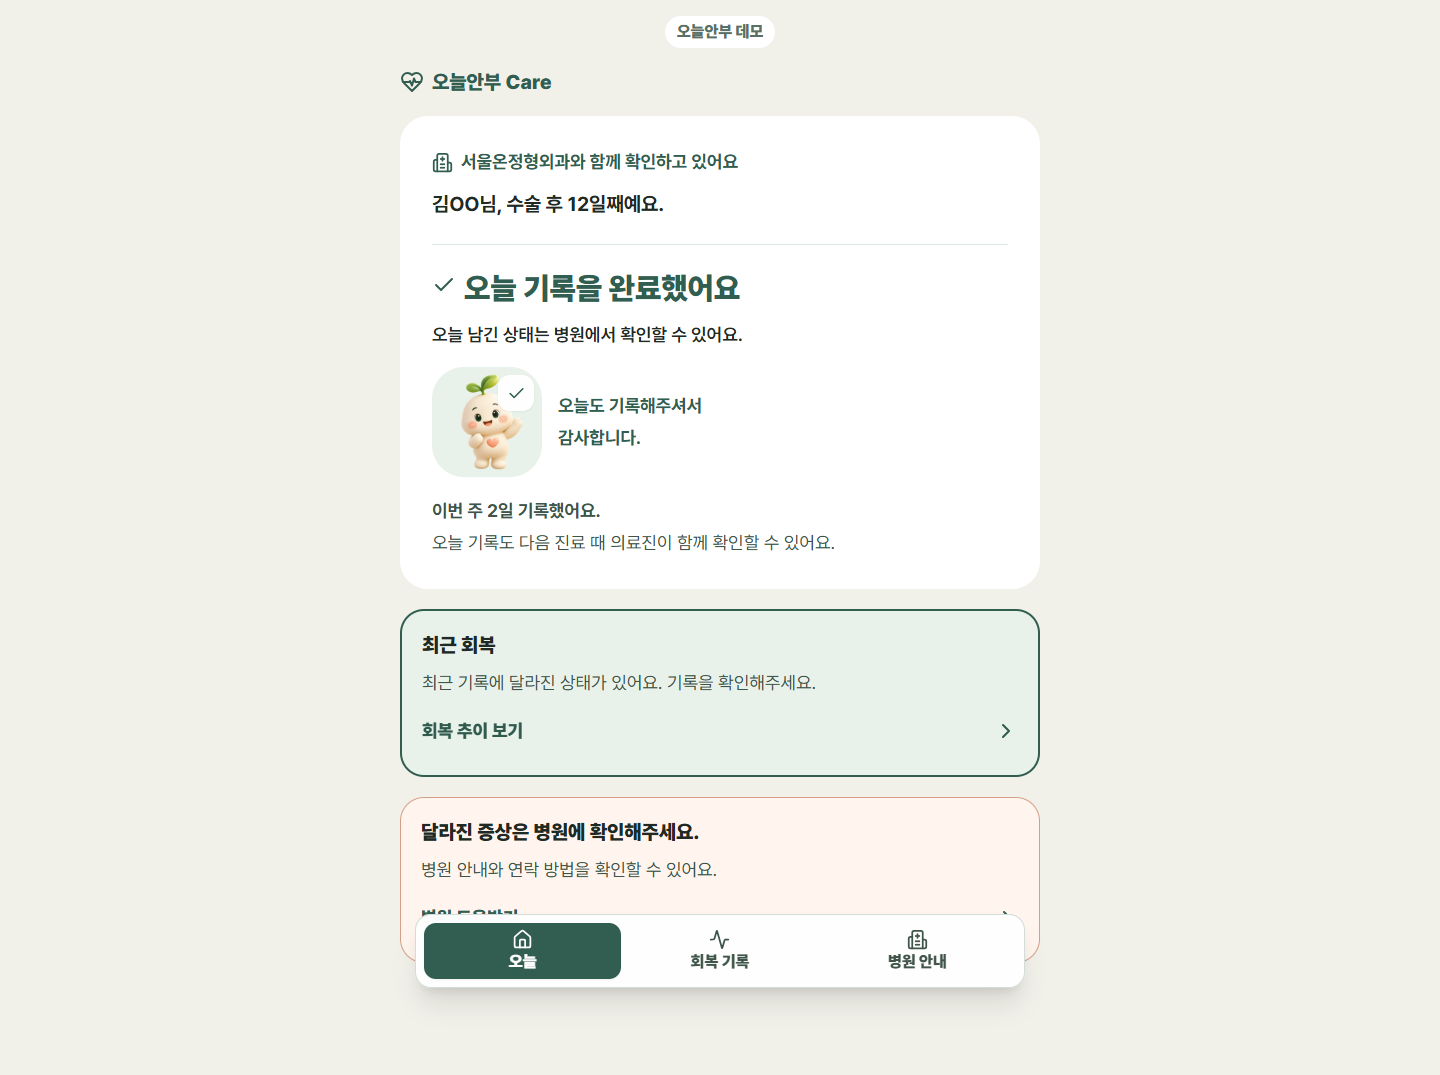
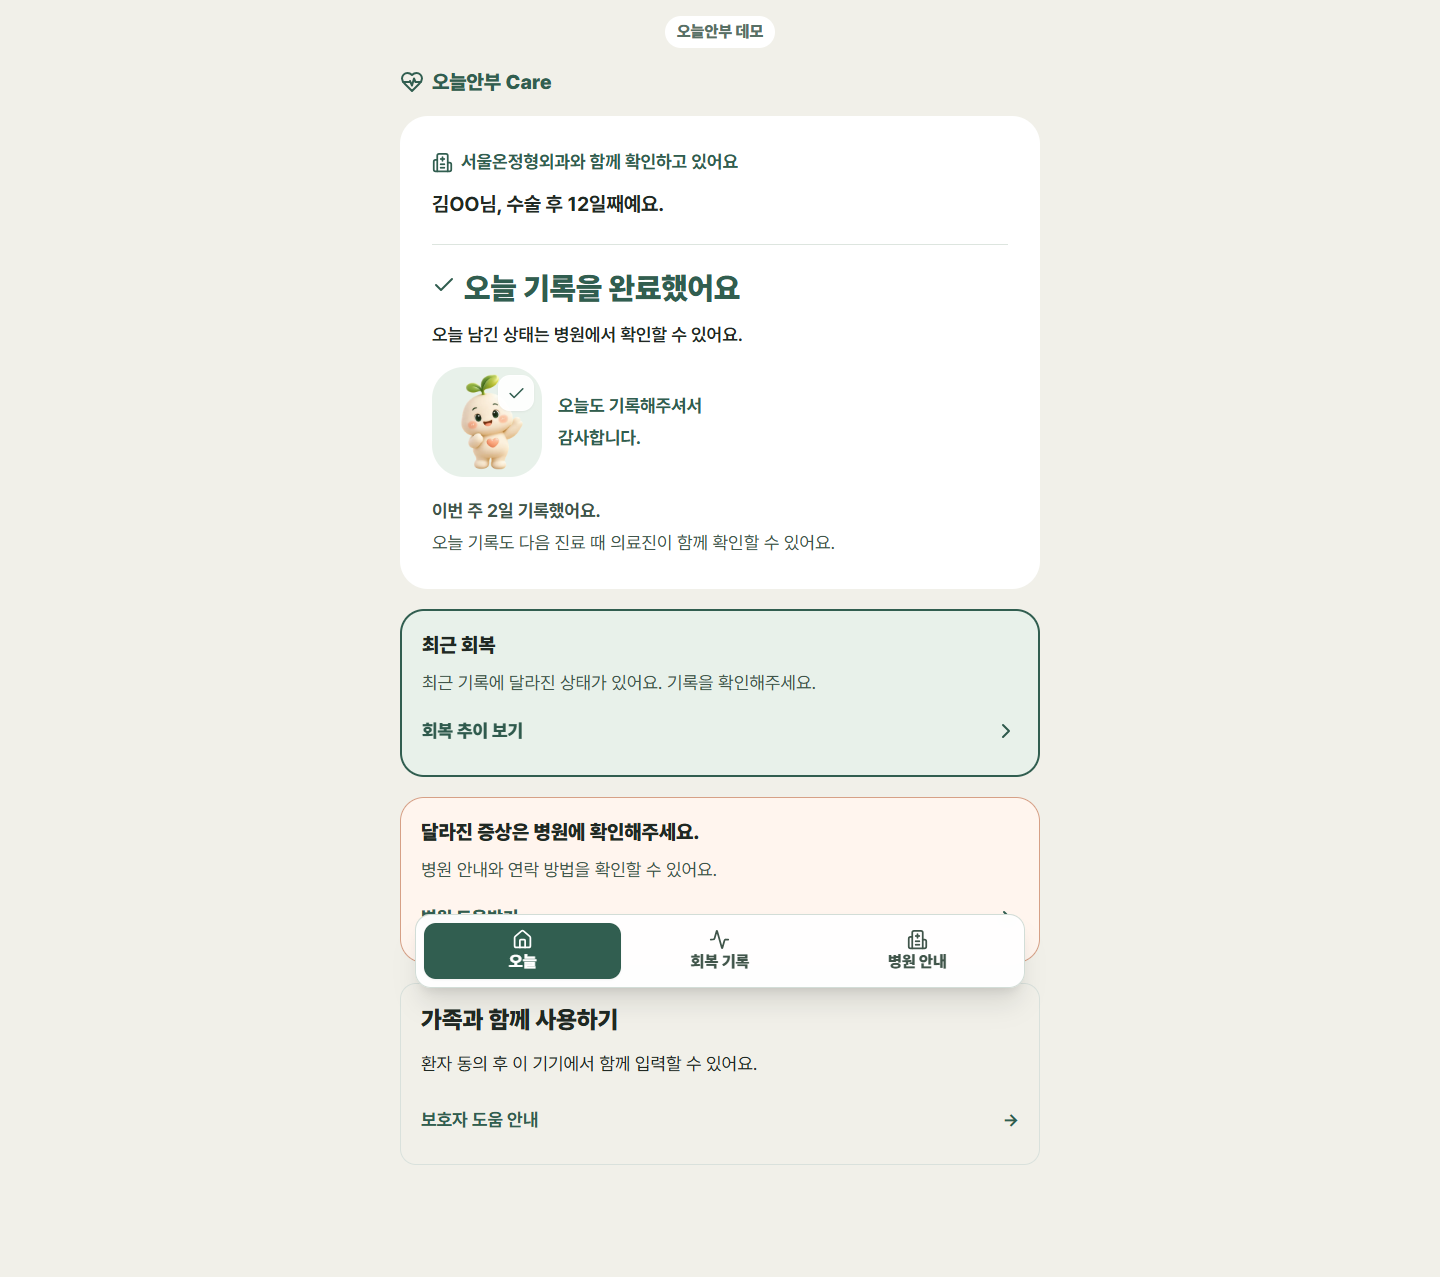
Update Site source

diff --git a/src/components/patient-hospital-guide.tsx b/src/components/patient-hospital-guide.tsx
@@ -1,43 +1,38 @@
 "use client";
 import { useEffect, useState } from "react";
-import { PatientLink, usePatientNavigation } from "@/components/patient-navigation";
+import { usePatientNavigation } from "@/components/patient-navigation";
 import { patientAppointment } from "@/lib/patient-appointment";
 import type { Hospital, Patient } from "@/lib/care-mvp";
 
 export function PatientHospitalGuide({hospital,patient}:{hospital?:Hospital;patient:Patient}) {
-  const nav=usePatientNavigation(),[now,setNow]=useState(()=>new Date()),[urgent,setUrgent]=useState(false),[family,setFamily]=useState(false),[consent,setConsent]=useState(false),[past,setPast]=useState(false),[help,setHelp]=useState(false),[demoAction,setDemoAction]=useState("");
+  const nav=usePatientNavigation(),[now,setNow]=useState(()=>new Date()),[urgent,setUrgent]=useState(false),[past,setPast]=useState(false),[help,setHelp]=useState(false),[demoAction,setDemoAction]=useState("");
   useEffect(()=>{const refresh=()=>setNow(new Date());const timer=window.setInterval(refresh,60000);window.addEventListener("focus",refresh);return()=>{clearInterval(timer);window.removeEventListener("focus",refresh);};},[]);
   const appointment=patientAppointment(patient.nextAppointment,now);
   const mock=nav.demo && !hospital?.phone;
   const phone=mock?"02-000-0000":hospital?.phone?.trim(), hours=mock?"평일 09:00–18:00":hospital?.openingHours, address=mock?"서울 ○○구 ○○로 00":hospital?.address, dial=phone?.replace(/[\s().-]/g,"");
   const callable=!!dial && /^\+?\d{7,15}$/.test(dial);
-  const card="rounded-3xl bg-white p-6", action="flex min-h-14 items-center justify-between rounded-2xl border border-[#CAD8CF] px-4 text-lg font-black text-[#315E50]";
-  return <div className="space-y-5 py-5">
-    <header><p className="text-lg font-bold text-[#315E50]">병원 안내</p><h1 className="mt-2 text-3xl font-black leading-snug">{hospital?.name || "연결된 병원"}</h1><p className="mt-3 text-lg leading-8">퇴원 후 회복관리 안내</p></header>
-    <section className={card}><h2 className="text-2xl font-black">어떤 도움이 필요하세요?</h2><div className="mt-4 grid gap-3">
-      <button className={action+" border-[#DFB8A5] bg-[#FFF8F4] text-[#803F2D]"} aria-expanded={urgent} aria-controls="urgent-detail" onClick={()=>setUrgent(v=>!v)}>긴급한 증상이 있어요 <span aria-hidden>→</span></button>
-      {urgent ? <div id="urgent-detail" className="rounded-2xl bg-[#FFF8F4] p-5 text-lg leading-8"><h3 className="text-xl font-black">갑자기 이런 증상이 있나요?</h3><ul className="mt-3 list-disc pl-5"><li>갑작스럽게 심해진 통증</li><li>호흡곤란</li><li>의식 변화</li><li>지속적인 출혈</li></ul><p className="mt-4 font-bold">응급 증상이 있다면 오늘안부의 답변을 기다리지 말고 119 또는 가까운 응급의료기관을 이용하세요.</p><a href="tel:119" className="mt-4 flex min-h-14 items-center justify-center rounded-xl border-2 border-[#803F2D] font-black text-[#803F2D]">119 전화하기</a></div> : null}
-      <a href="#hospital-contact" className={action}>병원에 문의하기 <span aria-hidden>→</span></a>
-      
-    </div></section>
+  const card="rounded-2xl bg-white p-4 sm:p-5", action="flex min-h-14 items-center justify-between rounded-2xl border border-[#CAD8CF] px-4 text-lg font-black text-[#315E50]";
+  return <div className="space-y-3 py-4">
+    <header><p className="text-lg font-bold text-[#315E50]">병원 안내</p><h1 className="mt-2 text-3xl font-black leading-snug">{hospital?.name || "연결된 병원"}</h1></header>
+    <section id="hospital-contact" className={card+" scroll-mt-5"}><h2 className="sr-only">병원 정보</h2>
+      {nav.demo?<p className="mb-3 text-base font-bold text-[#315E50]">Demo · 아래 정보는 예시입니다.</p>:null}
+      <dl className="grid gap-2 sm:grid-cols-2"><div><dt className="sr-only">전화</dt><dd className="mt-1 text-xl font-black">{phone || "전화번호 정보 없음"}</dd></div><div><dt className="sr-only">진료시간</dt><dd className="mt-1 text-lg whitespace-pre-line">{hours || "진료시간 정보 없음"}</dd></div></dl>
+      {mock?<button onClick={()=>setDemoAction("전화 버튼을 선택했어요.")} className="mt-3 min-h-12 rounded-xl bg-[#315E50] px-6 text-lg font-black text-white">전화하기</button>:callable?<a href={`tel:${dial}`} className="mt-3 inline-flex min-h-12 items-center rounded-xl bg-[#315E50] px-6 text-lg font-black text-white">전화하기</a>:<button onClick={()=>setHelp(v=>!v)} aria-expanded={help} className="mt-3 min-h-12 text-lg font-black text-[#315E50]">병원 연락처 찾는 방법 →</button>}
+      {help?<div className="mt-3 rounded-xl bg-[#F1F0E9] p-4 text-lg leading-8"><p>문자나 카카오톡에서 병원 이름을 검색해 받은 안내의 전화번호를 확인해주세요. 퇴원 안내문에서도 찾을 수 있어요.</p><a href={`https://www.google.com/search?q=${encodeURIComponent((hospital?.name||"")+" 공식 홈페이지 전화번호")}`} target="_blank" rel="noopener noreferrer" className="mt-2 inline-flex min-h-12 items-center font-bold text-[#315E50]">병원 공식 연락처 검색 · 새 창 →</a><p className="text-base">동명이 있는 병원은 주소를 함께 확인해주세요.</p></div>:null}
+      <dl className="mt-2"><dt className="sr-only">주소</dt><dd className="mt-1 text-lg leading-8">{address || "주소 정보 없음"}</dd></dl>
+      {mock?<button onClick={()=>setDemoAction("길찾기 버튼을 선택했어요.")} className="min-h-12 text-lg font-black text-[#315E50]">길찾기 →</button>:address?<a href={`https://www.google.com/maps/dir/?api=1&destination=${encodeURIComponent(address)}`} target="_blank" rel="noopener noreferrer" className="inline-flex min-h-12 items-center text-lg font-black text-[#315E50]">길찾기 · 새 창 →</a>:null}
+      {demoAction?<p role="status" className="mt-3 rounded-xl bg-[#E8F1EA] p-3 text-lg leading-7">{demoAction}</p>:null}
+    </section>
     <section id="patient-appointment" className={card+" scroll-mt-5"} aria-labelledby="appointment-title">
       <h2 id="appointment-title" className="text-2xl font-black">다음 진료</h2>
       {appointment.state==="today"||appointment.state==="upcoming" ? <><p className="mt-3 text-xl font-black">{appointment.state==="today"?"오늘 진료가 있어요":`D-${appointment.days}`}</p><p className="mt-2 text-lg leading-8">{appointment.label}</p><p className="mt-2 text-lg">{hospital?.name} · {patient.department || "진료과 확인 필요"}</p></> : <><h3 className="mt-3 text-xl font-black">예정된 다음 진료가 없어요.</h3><p className="mt-2 text-lg leading-8">필요하면 병원에 일정을 확인해주세요.</p></>}
       <a href="#hospital-contact" className="mt-3 inline-flex min-h-12 items-center text-lg font-black text-[#315E50]">병원에 일정 문의하기 →</a>
       {appointment.state==="past" ? <div className="mt-3 border-t border-[#D5DED7] pt-2"><button aria-expanded={past} aria-controls="past-appointment" onClick={()=>setPast(v=>!v)} className="min-h-12 text-lg font-bold text-[#40554A]">지난 진료 {past?"접기":"보기"}</button>{past?<p id="past-appointment" className="text-lg leading-8">{appointment.label}<br/>{hospital?.name} · {patient.department || "진료과 확인 필요"}</p>:null}</div>:null}
     </section>
-    <section id="hospital-contact" className={card+" scroll-mt-5"}><h2 className="text-2xl font-black">병원 정보</h2>
-      {mock?<p className="mt-2 rounded-xl bg-[#E8F1EA] p-3 text-base font-bold">데모용 예시 정보 · 실제 병원 연락처가 아닙니다.</p>:null}
-      <dl className="mt-4 grid gap-4 sm:grid-cols-2"><div><dt className="text-lg font-bold">전화</dt><dd className="mt-1 text-xl font-black">{phone || "전화번호 정보 없음"}</dd></div><div><dt className="text-lg font-bold">진료시간</dt><dd className="mt-1 text-lg whitespace-pre-line">{hours || "진료시간 정보 없음"}</dd></div></dl>
-      {mock?<button onClick={()=>setDemoAction("전화 연결 미리보기예요. 실제 서비스에서는 등록된 병원 번호로 전화 앱이 열립니다.")} className="mt-3 min-h-12 rounded-xl bg-[#315E50] px-6 text-lg font-black text-white">전화하기</button>:callable?<a href={`tel:${dial}`} className="mt-3 inline-flex min-h-12 items-center rounded-xl bg-[#315E50] px-6 text-lg font-black text-white">전화하기</a>:<button onClick={()=>setHelp(v=>!v)} aria-expanded={help} className="mt-3 min-h-12 text-lg font-black text-[#315E50]">병원 연락처 찾는 방법 →</button>}
-      {help?<div className="mt-3 rounded-xl bg-[#F1F0E9] p-4 text-lg leading-8"><p>문자나 카카오톡에서 병원 이름을 검색해 받은 안내의 전화번호를 확인해주세요. 퇴원 안내문에서도 찾을 수 있어요.</p><a href={`https://www.google.com/search?q=${encodeURIComponent((hospital?.name||"")+" 공식 홈페이지 전화번호")}`} target="_blank" rel="noopener noreferrer" className="mt-2 inline-flex min-h-12 items-center font-bold text-[#315E50]">병원 공식 연락처 검색 · 새 창 →</a><p className="text-base">동명이 있는 병원은 주소를 함께 확인해주세요.</p></div>:null}
-      <dl className="mt-4 border-t border-[#D5DED7] pt-4"><dt className="text-lg font-bold">주소</dt><dd className="mt-1 text-lg leading-8">{address || "주소 정보 없음"}</dd></dl>
-      {mock?<button onClick={()=>setDemoAction("길찾기 미리보기예요. 실제 서비스에서는 등록된 병원 주소로 지도가 열립니다.")} className="min-h-12 text-lg font-black text-[#315E50]">길찾기 →</button>:address?<a href={`https://www.google.com/maps/dir/?api=1&destination=${encodeURIComponent(address)}`} target="_blank" rel="noopener noreferrer" className="inline-flex min-h-12 items-center text-lg font-black text-[#315E50]">길찾기 · 새 창 →</a>:null}
-      {demoAction?<p role="status" className="mt-3 rounded-xl bg-[#E8F1EA] p-3 text-lg leading-7">{demoAction}</p>:null}
-    </section>
-    <section className={card}><h2 className="text-xl font-black">다음 진료를 준비한다면</h2><p className="mt-2 text-lg leading-8">지금까지 남긴 회복 기록을 확인해보세요.</p><PatientLink href={nav.href("history")} className="mt-2 inline-flex min-h-12 items-center text-lg font-black text-[#315E50]">회복 기록 보기 →</PatientLink></section>
-    <section className={card}><h2 className="text-2xl font-black">가족과 함께 사용하기</h2><p className="mt-3 text-lg leading-8">환자 동의 후 이 기기에서 함께 입력할 수 있어요.</p><button className={action+" mt-4 w-full"} aria-expanded={family} onClick={()=>setFamily(v=>!v)}>보호자 도움 안내 <span aria-hidden>→</span></button>
-      {family ? <div className="mt-4 space-y-3 text-lg leading-8"><p>보호자는 환자 이름과 회복 기록을 볼 수 있고, 오늘 상태를 대신 입력할 수 있어요. 입력 내용은 보호자 대리 기록으로 저장돼요.</p><p>현재는 환자가 연결된 기기에서 함께 사용하는 기능이에요. 별도 보호자 전용 링크 발송과 연결 해제 기능은 아직 지원하지 않아요.</p><p>공용 기기에서는 사용을 피해주세요. 환자 동의 없이 화면이나 초대 링크를 공유하지 마세요.</p><label className="flex min-h-14 items-start gap-3 rounded-xl bg-[#F1F0E9] p-4"><input type="checkbox" checked={consent} onChange={e=>setConsent(e.target.checked)} className="mt-2 size-5 shrink-0"/>환자가 정보 확인과 보호자의 대리 입력에 동의했어요.</label>{consent ? <PatientLink href={nav.href("checkin",{proxy:"guardian"})} className={action}>이 기기에서 함께 입력하기 →</PatientLink> : null}</div> : null}
-    </section>
+    <section className={card}><h2 className="text-2xl font-black">긴급한 증상이 있나요?</h2><div className="mt-4 grid gap-3">
+      <button className={action+" border-[#DFB8A5] bg-[#FFF8F4] text-[#803F2D]"} aria-expanded={urgent} aria-controls="urgent-detail" onClick={()=>setUrgent(v=>!v)}>긴급 증상 안내 <span aria-hidden>→</span></button>
+      {urgent ? <div id="urgent-detail" className="rounded-2xl bg-[#FFF8F4] p-5 text-lg leading-8"><h3 className="text-xl font-black">갑자기 이런 증상이 있나요?</h3><ul className="mt-3 list-disc pl-5"><li>갑작스럽게 심해진 통증</li><li>호흡곤란</li><li>의식 변화</li><li>지속적인 출혈</li></ul><p className="mt-4 font-bold">응급 증상이 있다면 오늘안부의 답변을 기다리지 말고 119 또는 가까운 응급의료기관을 이용하세요.</p><a href="tel:119" className="mt-4 flex min-h-14 items-center justify-center rounded-xl border-2 border-[#803F2D] font-black text-[#803F2D]">119 전화하기</a></div> : null}
+      
+    </div></section>
   </div>;
 }

diff --git a/src/components/patient-care-mvp.tsx b/src/components/patient-care-mvp.tsx
@@ -315,7 +315,7 @@ function AdaptiveCheckin({ patient, todayCheck, history, guardianMode, demo, edi
 function PatientShell({ children, demo, active = "home", backLabel, backFallback, onBack, hideNav = false, careStage = "activeCare" }: { children: React.ReactNode; demo: boolean; active?: "home" | "history" | "hospital"; backLabel?: string; backFallback?: string; onBack?:()=>void; hideNav?:boolean; careStage?:CareStage }) {
   return (
     <main className="min-h-[100dvh] bg-[#F1F0E9] px-5 pb-[calc(7rem+env(safe-area-inset-bottom))] text-[#202923] [font-size:18px]">
-      <div className="mx-auto max-w-[640px]">{demo ? <div className="pt-4 text-center"><span className="inline-flex rounded-full bg-white px-3 py-1 text-base font-black text-[#587066]">오늘안부 데모</span></div> : null}{backLabel ? <header className="flex items-center justify-between border-b border-[#D5DED7] py-3"><PatientBack label={backLabel === "오늘" && careStage === "completedCare" ? "홈" : backLabel} fallback={backFallback} onBack={onBack}/><span className="text-lg font-black text-[#315E50]">오늘안부 Care</span></header> : null}{children}</div>{!hideNav ? <PatientBottomNav demo={demo} current={active} careStage={careStage}/> : null}
+      <div className="mx-auto max-w-[640px]">{demo && active !== "hospital" ? <div className="pt-4 text-center"><span className="inline-flex rounded-full bg-white px-3 py-1 text-base font-black text-[#587066]">오늘안부 데모</span></div> : null}{backLabel ? <header className="flex items-center justify-between border-b border-[#D5DED7] py-3"><PatientBack label={backLabel === "오늘" && careStage === "completedCare" ? "홈" : backLabel} fallback={backFallback} onBack={onBack}/><span className="text-lg font-black text-[#315E50]">오늘안부 Care</span></header> : null}{children}</div>{!hideNav ? <PatientBottomNav demo={demo} current={active} careStage={careStage}/> : null}
     </main>
   );
 }

diff --git a/src/components/patient-family-help.tsx b/src/components/patient-family-help.tsx
@@ -1,0 +1,6 @@
+"use client";
+import {useState} from "react";
+import {PatientLink,usePatientNavigation} from "@/components/patient-navigation";
+export function PatientFamilyHelp(){const nav=usePatientNavigation(),[family,setFamily]=useState(false),[consent,setConsent]=useState(false);const action="flex min-h-12 items-center justify-between text-lg font-bold text-[#315E50]";return (<section className="mt-5 rounded-2xl border border-[#D9E1DC] p-5"><h2 className="text-2xl font-black">가족과 함께 사용하기</h2><p className="mt-3 text-lg leading-8">환자 동의 후 이 기기에서 함께 입력할 수 있어요.</p><button className={action+" mt-4 w-full"} aria-expanded={family} onClick={()=>setFamily(v=>!v)}>보호자 도움 안내 <span aria-hidden>→</span></button>
+      {family ? <div className="mt-4 space-y-3 text-lg leading-8"><p>보호자는 환자 이름과 회복 기록을 볼 수 있고, 오늘 상태를 대신 입력할 수 있어요. 입력 내용은 보호자 대리 기록으로 저장돼요.</p><p>현재는 환자가 연결된 기기에서 함께 사용하는 기능이에요. 별도 보호자 전용 링크 발송과 연결 해제 기능은 아직 지원하지 않아요.</p><p>공용 기기에서는 사용을 피해주세요. 환자 동의 없이 화면이나 초대 링크를 공유하지 마세요.</p><label className="flex min-h-14 items-start gap-3 rounded-xl bg-[#F1F0E9] p-4"><input type="checkbox" checked={consent} onChange={e=>setConsent(e.target.checked)} className="mt-2 size-5 shrink-0"/>환자가 정보 확인과 보호자의 대리 입력에 동의했어요.</label>{consent ? <PatientLink href={nav.href("checkin",{proxy:"guardian"})} className={action}>이 기기에서 함께 입력하기 →</PatientLink> : null}</div> : null}
+    </section>);}

diff --git a/src/components/patient-home.tsx b/src/components/patient-home.tsx
@@ -1,4 +1,5 @@
 import { PatientLink as Link } from "@/components/patient-navigation";
+import { PatientFamilyHelp } from "@/components/patient-family-help";
 import { CalendarDays, Check, ChevronRight, HeartPulse, Hospital } from "lucide-react";
 import type { CareState, Patient } from "@/lib/care-mvp";
 import { getPatientHome } from "@/lib/patient-home";
@@ -41,5 +42,6 @@ export function PatientHome({ patient, state, today, demo }: { patient: Patient;
     </section>)}
     {followUp ? <section className="mt-5 rounded-2xl bg-white p-5"><h2 className="text-xl font-black">병원에서 다시 확인할 예정이에요.</h2><p className="mt-2 text-lg leading-8">{followUp.followUpDueDate ? `${followUp.followUpDueDate}에` : "다음 일정에"} 회복 상태를 한 번 더 확인합니다.</p></section> : null}
     {!home.todayCheck && home.weeklyDays > 0 ? <aside className="mt-5 flex items-center gap-4 p-2"><CareCompanion compact state="welcome"/><p className="text-lg font-bold leading-8 text-[#40554A]">하루 한 번,<br/>회복 기록을 이어가세요.</p></aside> : null}
+    <PatientFamilyHelp/>
   </div>;
 }

diff --git a/src/components/patient-care-ended.tsx b/src/components/patient-care-ended.tsx
@@ -1,4 +1,5 @@
 "use client";
+import {PatientFamilyHelp} from "@/components/patient-family-help";
 import { Check } from "lucide-react";
 import { PatientLink, usePatientNavigation } from "@/components/patient-navigation";
 import { painValue, type CareState, type Patient } from "@/lib/care-mvp";
@@ -43,5 +44,6 @@ export function PatientCareEnded({ patient, state }: { patient: Patient; state: 
       <h2 className="text-lg font-black">관리기간 종료 ≠ 치료 종료</h2>
       <p className="mt-2 text-base leading-7">오늘안부 이용기간이 끝난 것이며, 의료적인 완치나 정상 판정을 의미하지 않습니다.</p>
     </aside>
+    <PatientFamilyHelp/>
   </div>;
 }

diff --git a/qa/patient-hospital-review.md b/qa/patient-hospital-review.md
@@ -1,5 +1,8 @@
 # Patient hospital guide QA
 
+## Three-block information structure
+Hospital guide now contains exactly three main sections: contact, appointment and collapsed emergency guidance. Removed the duplicate recovery-history area; bottom navigation provides history access. Extracted guardian consent/help into a shared home component for both active and completed-care patients. Hospital demo labeling appears once inside contact information, not again in the shell. Reduced card padding/gaps and retained the 640px desktop limit and safe-area clearance.
+
 ## Compact-detail follow-up
 Urgent symptoms and previous appointment details default collapsed. Removed the duplicated expanded emergency footer. Appointment, hospital contact, visit preparation and family help are separate sections. Desktop contact fields use two columns within the existing 640px shell; bottom padding now includes safe-area in addition to navigation clearance.
 
